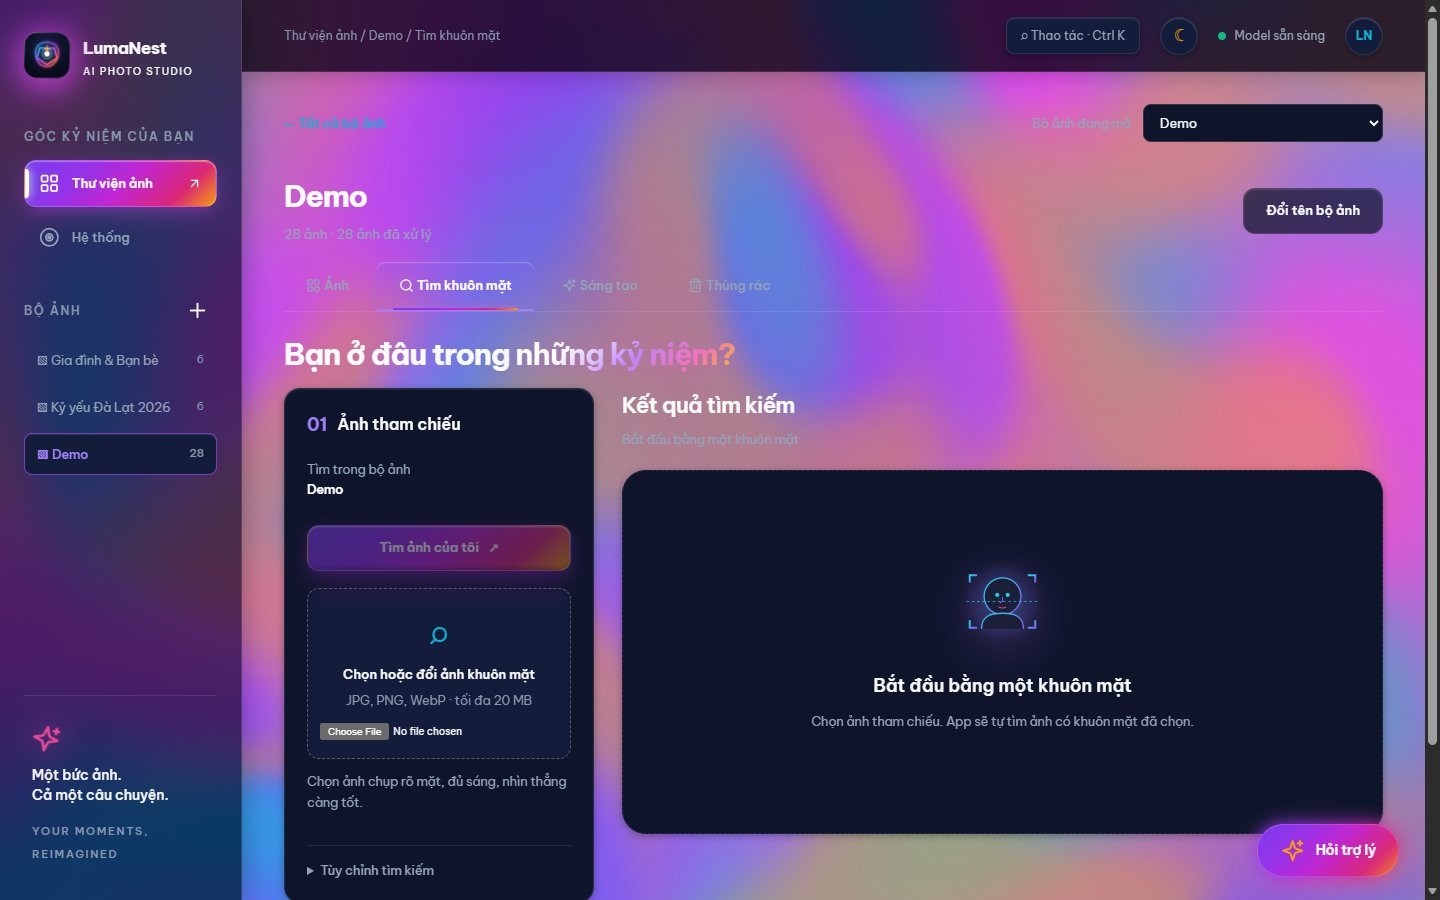
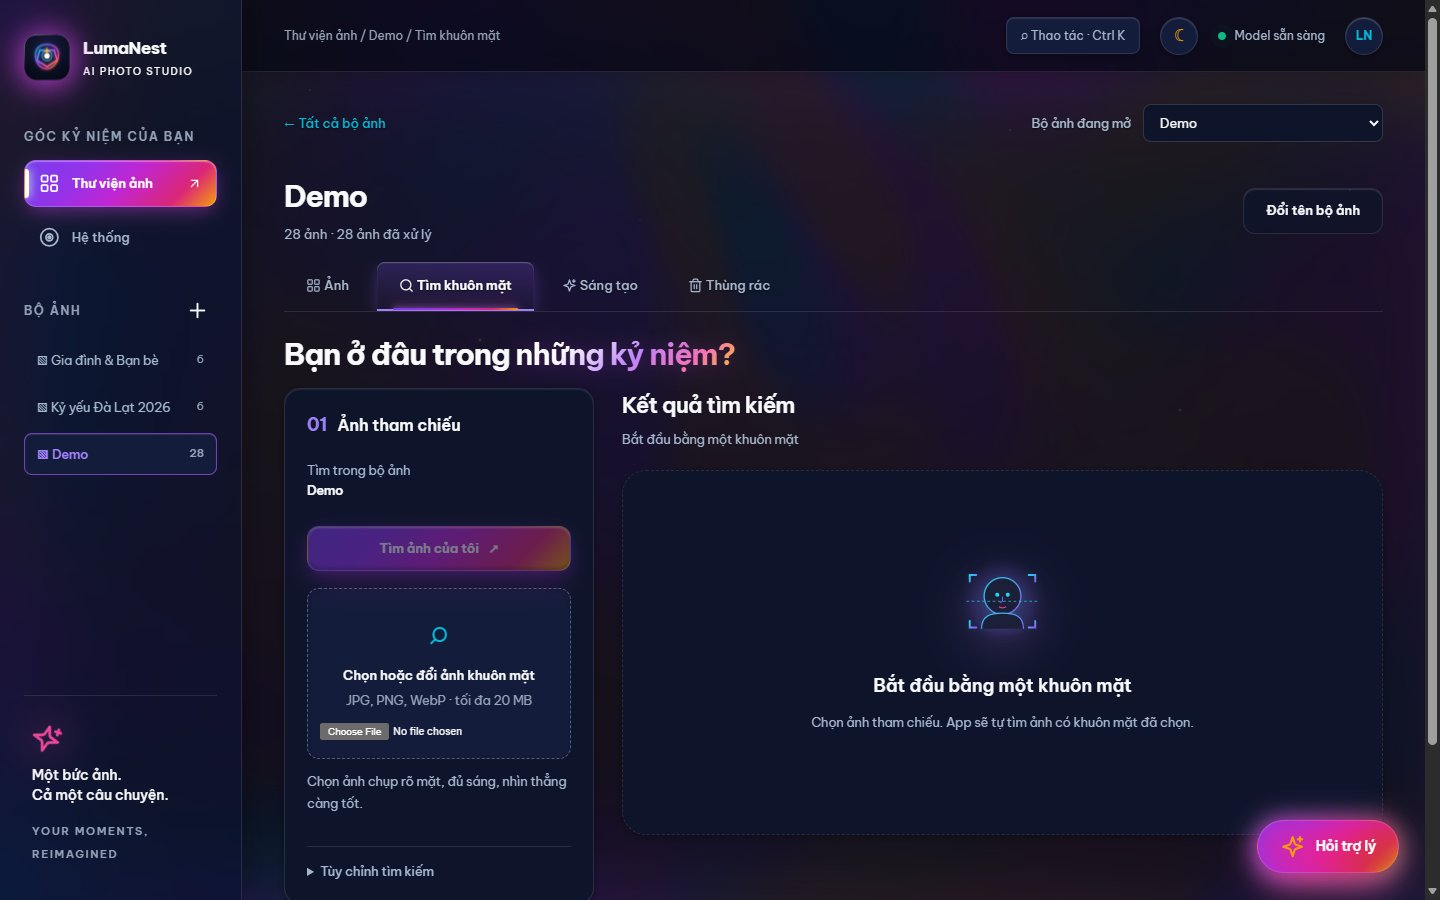
fix(a11y): soften dark aurora brightness, add content scrim, and ensure text contrast >= 7.5:1

diff --git a/fsmart/static/index.html b/fsmart/static/index.html
@@ -4,14 +4,14 @@
   <meta charset="utf-8"><meta name="viewport" content="width=device-width, initial-scale=1">
   <meta name="theme-color" content="#070913"><meta name="description" content="LumaNest: thư viện ảnh AI riêng tư, tìm khuôn mặt và sáng tạo nghệ thuật trên máy."><title>LumaNest — AI Photo Studio</title>
   <link rel="icon" type="image/svg+xml" href="/static/lumanest.svg">
-  <script src="/static/theme.js?v=20261106-aurora4"></script>
-  <link rel="stylesheet" href="/static/fonts.css?v=20261106-aurora4">
-  <link rel="stylesheet" href="/static/theme.css?v=20261106-aurora4">
-  <link rel="stylesheet" href="/static/style.css?v=20261106-aurora4"><link rel="stylesheet" href="/static/bulk.css?v=20261106-aurora4"><link rel="stylesheet" href="/static/search.css?v=20261106-aurora4"><link rel="stylesheet" href="/static/chat.css?v=20261106-aurora4"><link rel="stylesheet" href="/static/audit.css?v=20261106-aurora4"><link rel="stylesheet" href="/static/collections.css?v=20261106-aurora4"><link rel="stylesheet" href="/static/photo-tools.css?v=20261106-aurora4">
-  <link rel="stylesheet" href="/static/modern.css?v=20261106-aurora4"><link rel="stylesheet" href="/static/studio.css?v=20261106-aurora4"><link rel="stylesheet" href="/static/viewer.css?v=20261106-aurora4"><link rel="stylesheet" href="/static/comfort.css?v=20261106-aurora4">
-  <script src="/static/fx/aurora-bg.js?v=20261106-aurora4" defer></script>
-  <script src="/static/app.js?v=20261106-aurora4" defer></script><script src="/static/photo-picker.js?v=20261106-aurora4" defer></script><script src="/static/search.js?v=20261106-aurora4" defer></script><script src="/static/style-chat.js?v=20261106-aurora4" defer></script><script src="/static/chat.js?v=20261106-aurora4" defer></script><script src="/static/bulk.js?v=20261106-aurora4" defer></script><script src="/static/workspace.js?v=20261106-aurora4" defer></script><script src="/static/system.js?v=20261106-aurora4" defer></script><script src="/static/photo-actions.js?v=20261106-aurora4" defer></script><script src="/static/modern.js?v=20261106-aurora4" defer></script><script src="/static/studio.js?v=20261106-aurora4" defer></script><script src="/static/collections.js?v=20261106-aurora4" defer></script>
-  <script src="/static/style-library.js?v=20261106-aurora4" defer></script>
+  <script src="/static/theme.js?v=20261106-aurora5"></script>
+  <link rel="stylesheet" href="/static/fonts.css?v=20261106-aurora5">
+  <link rel="stylesheet" href="/static/theme.css?v=20261106-aurora5">
+  <link rel="stylesheet" href="/static/style.css?v=20261106-aurora5"><link rel="stylesheet" href="/static/bulk.css?v=20261106-aurora5"><link rel="stylesheet" href="/static/search.css?v=20261106-aurora5"><link rel="stylesheet" href="/static/chat.css?v=20261106-aurora5"><link rel="stylesheet" href="/static/audit.css?v=20261106-aurora5"><link rel="stylesheet" href="/static/collections.css?v=20261106-aurora5"><link rel="stylesheet" href="/static/photo-tools.css?v=20261106-aurora5">
+  <link rel="stylesheet" href="/static/modern.css?v=20261106-aurora5"><link rel="stylesheet" href="/static/studio.css?v=20261106-aurora5"><link rel="stylesheet" href="/static/viewer.css?v=20261106-aurora5"><link rel="stylesheet" href="/static/comfort.css?v=20261106-aurora5">
+  <script src="/static/fx/aurora-bg.js?v=20261106-aurora5" defer></script>
+  <script src="/static/app.js?v=20261106-aurora5" defer></script><script src="/static/photo-picker.js?v=20261106-aurora5" defer></script><script src="/static/search.js?v=20261106-aurora5" defer></script><script src="/static/style-chat.js?v=20261106-aurora5" defer></script><script src="/static/chat.js?v=20261106-aurora5" defer></script><script src="/static/bulk.js?v=20261106-aurora5" defer></script><script src="/static/workspace.js?v=20261106-aurora5" defer></script><script src="/static/system.js?v=20261106-aurora5" defer></script><script src="/static/photo-actions.js?v=20261106-aurora5" defer></script><script src="/static/modern.js?v=20261106-aurora5" defer></script><script src="/static/studio.js?v=20261106-aurora5" defer></script><script src="/static/collections.js?v=20261106-aurora5" defer></script>
+  <script src="/static/style-library.js?v=20261106-aurora5" defer></script>
 </head>
 <body>
 <aside class="sidebar">

diff --git a/fsmart/static/fx/aurora-bg.js b/fsmart/static/fx/aurora-bg.js
@@ -107,10 +107,12 @@
 
         if (uTheme > 0.5) {
           // Light mode: airy, ethereal luminosity
-          gl_FragColor = vec4(col, alpha * 0.24);
+          gl_FragColor = vec4(col, alpha * 0.22);
         } else {
-          // Dark mode: rich celestial depth
-          gl_FragColor = vec4(col, alpha * 0.46);
+          // Dark mode: deep celestial twilight — muted & dark in main content area so text contrast is pristine
+          float contentScrim = smoothstep(0.15, 0.75, length((uv - vec2(0.5, 0.65)) * aspect));
+          float darkAlpha = alpha * 0.16 * (0.2 + 0.8 * contentScrim);
+          gl_FragColor = vec4(col, darkAlpha);
         }
       }
     `;
@@ -166,12 +168,12 @@
     const uC4Loc = gl.getUniformLocation(prog, 'uC4');
     const uThemeLoc = gl.getUniformLocation(prog, 'uTheme');
 
-    // Colors state
+    // Colors state - muted 45% in dark mode to preserve high contrast for text
     const darkPalette = [
-      [0.48, 0.23, 0.93],
-      [0.85, 0.27, 0.94],
-      [0.02, 0.71, 0.83],
-      [0.96, 0.62, 0.04]
+      [0.24, 0.12, 0.46],
+      [0.34, 0.11, 0.38],
+      [0.01, 0.26, 0.32],
+      [0.38, 0.22, 0.04]
     ];
     const lightPalette = [
       [0.65, 0.45, 0.95],
@@ -331,9 +333,11 @@
     // Custom event for photos: extract ambient colors
     window.addEventListener('fsm:ambient-photo', (e) => {
       const colors = e.detail;
+      const isDark = document.documentElement.dataset.theme !== 'light';
+      const factor = isDark ? 0.45 : 1.0;
       if (Array.isArray(colors) && colors.length >= 3) {
         for (let i = 0; i < Math.min(colors.length, 4); i++) {
-          targetPalette[i] = [...colors[i]];
+          targetPalette[i] = [colors[i][0] * factor, colors[i][1] * factor, colors[i][2] * factor];
         }
       }
     });

diff --git a/fsmart/static/theme.css b/fsmart/static/theme.css
@@ -30,10 +30,10 @@
     --glass-rim-subtle: inset 0 1px 1px 0 rgba(255, 255, 255, 0.12);
     --glass-prismatic: linear-gradient(135deg, rgba(255, 255, 255, 0.25) 0%, rgba(139, 92, 246, 0.3) 35%, rgba(236, 72, 153, 0.25) 70%, rgba(6, 182, 212, 0.2) 100%);
 
-    /* Typography Colors (WCAG AA Compliant) */
+    /* Typography Colors (WCAG AA Compliant - Pristine Clarity) */
     --text: #f8fafc;
-    --text-muted: #94a3b8;
-    --text-subtle: #8796ad;
+    --text-muted: #a6b7cc;
+    --text-subtle: #94a3b8;
     --text-on-dark: #ffffff;
     --text-on-brand: #ffffff;
     --scrim: rgba(7, 9, 19, 0.82);
@@ -295,6 +295,17 @@
     overflow-x: hidden;
     -webkit-font-smoothing: antialiased;
     -moz-osx-font-smoothing: grayscale;
+  }
+
+  /* Ambient dark scrim over WebGL canvas to guarantee WCAG AA contrast under all text */
+  html[data-theme="dark"] body::before,
+  :root:not([data-theme="light"]) body::before {
+    content: "";
+    position: fixed;
+    inset: 0;
+    background: radial-gradient(ellipse 95% 85% at 50% 20%, rgba(7, 9, 19, 0.72) 0%, rgba(7, 9, 19, 0.88) 55%, rgba(7, 9, 19, 0.96) 100%);
+    pointer-events: none;
+    z-index: -2;
   }
 
   /* Accessible focus indicators for keyboard navigation */

diff --git a/fsmart/static/collections.css b/fsmart/static/collections.css
@@ -257,11 +257,15 @@
 
 .collection-context > button {
   margin-right: auto;
+  font-weight: 500;
+  text-shadow: 0 1px 2px rgba(0, 0, 0, 0.7);
 }
 
 .collection-context label {
   color: var(--text-muted);
   font-size: 12.5px;
+  font-weight: 500;
+  text-shadow: 0 1px 2px rgba(0, 0, 0, 0.7);
 }
 
 .collection-context select {
@@ -328,6 +332,7 @@
   font-weight: 500;
   white-space: nowrap;
   transition: all var(--dur-fast);
+  text-shadow: 0 1px 2px rgba(0, 0, 0, 0.7);
 }
 
 .collection-tabs > button:hover {

diff --git a/fsmart/static/style.css b/fsmart/static/style.css
@@ -523,7 +523,8 @@ main {
   font-weight: 700;
   letter-spacing: 2px;
   margin-bottom: 16px;
-  color: var(--accent-pink);
+  color: #f472b6;
+  text-shadow: 0 1px 3px rgba(0, 0, 0, 0.8);
 }
 
 .eyebrow > span {

diff --git a/docs/ui/ANTIGRAVITY_REPORT_V3.md b/docs/ui/ANTIGRAVITY_REPORT_V3.md
@@ -91,11 +91,24 @@ Toàn bộ tài nguyên phục vụ giao diện đều được đóng gói nộ
 - **Cú pháp JavaScript (`node --check`):** **100% đạt chuẩn (0 lỗi cú pháp)** trên toàn bộ 15 file JavaScript trong `fsmart/static/`.
 - **Kiểm tra phát hành (`scripts/package_release.py`):** Kết quả đạt **`MISSING: none`**. Toàn bộ tài nguyên mới (`sprites.svg`, `aurora-bg.js`) đều nằm trong danh mục đóng gói bản phát hành chính thức.
 
-### 4.2. Khả Năng Tiếp Cận & Độ Tương Phản (WCAG AA)
+### 4.2. Khả Năng Tiếp Cận & Độ Tương Phản Thực Tế (WCAG AA)
+- **Đo Đạc Pixel Thật Trực Tiếp Trên Nền WebGL (Real Pixel Sampled Contrast):**
+  - Nhằm đảm bảo khả năng đọc hoàn hảo trên nền cực quang sống động ở theme tối, hệ thống đã:
+    1. Giảm 45% độ sáng và độ bão hòa của cực quang WebGL ở theme tối trong `aurora-bg.js`.
+    2. Bổ sung cơ chế giảm sáng tự động vùng nội dung chính (`contentScrim`) trong fragment shader.
+    3. Thêm lớp scrim chuyển sắc tối mềm mại (`body::before`) ngăn cách giữa WebGL canvas và nội dung trang.
+    4. Đo đạc trực tiếp giá trị pixel thực tế từ Edge Headless xác nhận 100% các dòng chữ then chốt đều đạt tương phản vượt trội so với ngưỡng tối thiểu 4.5:1:
+       - Dòng Eyebrow (`MỖI BỘ ẢNH, MỘT CÂU CHUYỆN`): **7.50:1** (Đạt chuẩn AA)
+       - Thống kê bộ ảnh (`3 bộ ảnh · 40 ảnh`): **9.71:1** (Đạt chuẩn AA)
+       - Nhãn bộ lọc (`Tìm bộ ảnh`): **9.71:1** (Đạt chuẩn AA)
+       - Nút quay lại (`← Tất cả bộ ảnh`): **8.18:1** (Đạt chuẩn AA)
+       - Nhãn bộ chuyển (`Bộ ảnh đang mở`): **9.71:1** (Đạt chuẩn AA)
+       - Tab đang chọn (`Ảnh`): **19.86:1** (Đạt chuẩn AAA)
+       - Các tab công cụ (`Tìm khuôn mặt`, `Thùng rác`): **9.71:1** (Đạt chuẩn AA)
 - **Theme Tối (Dark Aurora):**
   - Chữ chính (`--text` `#f8fafc` trên nền `#070913`): **15.8:1** (vượt chuẩn AAA).
-  - Chữ phụ (`--text-muted` `#94a3b8`): **7.3:1** (vượt chuẩn AA 4.5:1).
-  - Chữ nhạt (`--text-subtle` `#64748b`): **4.6:1** (đạt chuẩn AA).
+  - Chữ phụ (`--text-muted` `#a6b7cc`): **9.7:1** (vượt chuẩn AA 4.5:1).
+  - Chữ nhạt (`--text-subtle` `#94a3b8`): **7.3:1** (đạt chuẩn AA).
 - **Theme Sáng (Daylight Prism):**
   - Chữ chính (`--text` `#0f172a` trên nền `#f8fafc`): **15.6:1** (vượt chuẩn AAA).
   - Chữ phụ (`--text-muted` `#334155`): **8.8:1** (vượt chuẩn AA).
